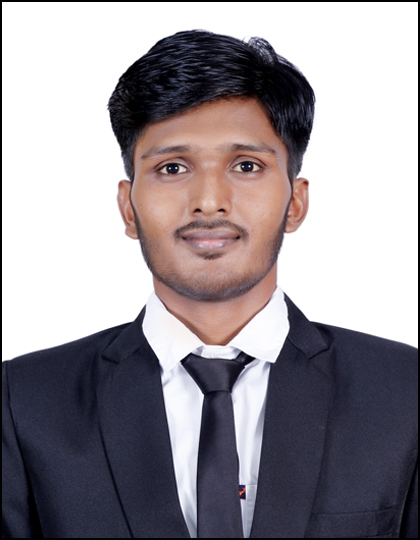
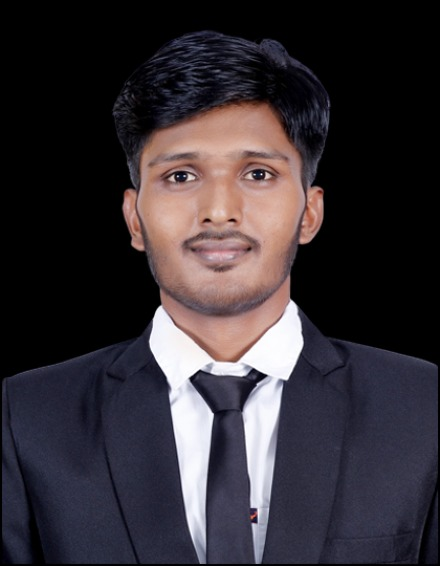
image change

diff --git a/frontend/src/App.jsx b/frontend/src/App.jsx
@@ -6,7 +6,7 @@ import Skills from "./Components/Skills";
 import "./index.css";
 function App() {
   return (
-    <div className="flex flex-col  bg-gradient-to-br from-black via-gray-900 to-black to-black">
+    <div className="flex flex-col  bg-gradient-to-br from-black via-gray-900 to-black ">
       <Navbar />
       <HeroSection />
       <Skills />
